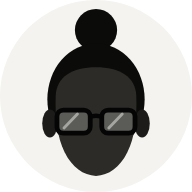
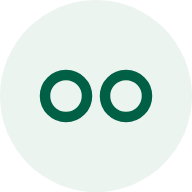
Les yeux d'Alice reviennent ; téléchargements blindés et diagnosticables
- retour à la présence animée d'origine (les deux yeux qui suivent le
  regard et réagissent aux états) ; vignette, icône d'onglet et image des
  e-mails reprennent les yeux ;
- routes de téléchargement du CV et du dossier : toute erreur inattendue
  renvoie un message clair (avec les en-têtes CORS) et une alerte portant
  la trace complète ;
- côté interface, un échec affiche le motif du serveur ou, à défaut, le
  code d'erreur (502/504 = le serveur a coupé ou redémarré).

Claude-Session: https://claude.ai/code/session_017LQZUVAtpk48LmXhj6mZ9W

diff --git a/frontend/app/onboarding/components/AlicePresence.tsx b/frontend/app/onboarding/components/AlicePresence.tsx
@@ -1,8 +1,7 @@
 "use client";
 
-import React, { useEffect, useId } from "react";
+import React, { useEffect } from "react";
 import { motion, useMotionValue, useSpring, useTransform } from "framer-motion";
-import { AliceGlasses, AliceHead, HEAD_VIEWBOX } from "./AliceSilhouette";
 
 export type AliceEmotion =
   | "idle"
@@ -20,101 +19,117 @@ interface AlicePresenceProps {
   size?: "sm" | "md" | "lg";
 }
 
-const HEIGHT = { sm: 34, md: 64, lg: 104 } as const;
-
-/**
- * Alice, présente : sa tête de face, en contre-jour, qui respire.
- *
- * Les états se lisent dans la lumière plus que dans le geste — nette quand
- * elle t'écoute, la tête qui s'incline quand elle lit ou écrit, le contour
- * qui se trouble et la lumière qui pulse derrière elle quand elle travaille.
- * Son regard suit très légèrement le pointeur : la tête se décale à peine,
- * la monture un peu plus, comme quand on tourne les yeux.
- */
 export function AlicePresence({ emotion, className = "", size = "lg" }: AlicePresenceProps) {
-  const uid = useId().replace(/[^a-zA-Z0-9]/g, "");
   const mouseX = useMotionValue(0);
   const mouseY = useMotionValue(0);
-  const gx = useSpring(mouseX, { damping: 30, stiffness: 120 });
-  const gy = useSpring(mouseY, { damping: 30, stiffness: 120 });
+
+  const springConfig = { damping: 25, stiffness: 200 };
+  const gazeX = useSpring(mouseX, springConfig);
+  const gazeY = useSpring(mouseY, springConfig);
 
   useEffect(() => {
-    const onMove = (e: MouseEvent) => {
+    const handleMouseMove = (e: MouseEvent) => {
       const cx = window.innerWidth / 2;
       const cy = window.innerHeight / 3;
-      mouseX.set(Math.max(-1, Math.min(1, (e.clientX - cx) / cx)));
-      mouseY.set(Math.max(-1, Math.min(1, (e.clientY - cy) / cy)));
+      const dx = Math.max(-1, Math.min(1, (e.clientX - cx) / cx));
+      const dy = Math.max(-1, Math.min(1, (e.clientY - cy) / cy));
+      mouseX.set(dx * 3);
+      mouseY.set(dy * 3);
     };
-    window.addEventListener("mousemove", onMove);
-    return () => window.removeEventListener("mousemove", onMove);
+
+    window.addEventListener("mousemove", handleMouseMove);
+    return () => window.removeEventListener("mousemove", handleMouseMove);
   }, [mouseX, mouseY]);
 
-  const busy = emotion === "working" || emotion === "searching" || emotion === "thinking";
-  const reading = emotion === "reading" || emotion === "writing";
+  const emotionOffsetY = useTransform(gazeY, (y) => {
+    if (emotion === "reading") return y + 3;
+    if (emotion === "thinking" || emotion === "working") return y - 2.5;
+    return y;
+  });
 
-  const headX = useTransform(gx, (g) => g * 0.7);
-  const headY = useTransform(gy, (g) => g * 0.4 + (reading ? 1.2 : 0));
-  const glassesX = useTransform(gx, (g) => g * 0.5);
-  const glassesY = useTransform(gy, (g) => g * 0.35);
-  const tilt = emotion === "thinking" ? -3 : reading ? 2.5 : 0;
+  const eyeSize = {
+    sm: "w-3 h-3 border-[2px]",
+    md: "w-4 h-4 border-[2px]",
+    lg: "w-5 h-5 border-[2.5px]",
+  }[size];
 
-  const sharp = emotion === "listening" || emotion === "happy" ? 0.5 : 0.75;
-  const height = HEIGHT[size];
-  const width = height;
-  const id = (name: string) => `${name}-${uid}`;
-  const pulse = { duration: 2.4, repeat: Infinity, ease: "easeInOut" } as const;
+  const gap = {
+    sm: "gap-4",
+    md: "gap-5",
+    lg: "gap-6",
+  }[size];
+
+  const isWorking = emotion === "working" || emotion === "searching" || emotion === "thinking";
 
   return (
-    <div className={`flex flex-col items-center justify-center select-none ${className}`}>
-      <svg viewBox={HEAD_VIEWBOX} width={width} height={height} role="img" aria-label="Alice" className="overflow-visible">
-        <defs>
-          <filter id={id("soft")} x="-30%" y="-30%" width="160%" height="160%">
-            <motion.feGaussianBlur
-              initial={false}
-              animate={{ stdDeviation: busy ? [sharp, sharp + 0.9, sharp] : sharp }}
-              transition={busy ? pulse : { duration: 0.6 }}
-            />
-          </filter>
-          <radialGradient id={id("glow")} cx="50%" cy="50%" r="50%">
-            <stop offset="0" stopColor="#E5F0EC" />
-            <stop offset="0.55" stopColor="#F3F8F6" stopOpacity="0.8" />
-            <stop offset="1" stopColor="#fff" stopOpacity="0" />
-          </radialGradient>
-        </defs>
-
-        {/* Le contre-jour : il s'intensifie quand elle travaille */}
-        <motion.ellipse
-          cx="50" cy="38" rx="34" ry="34"
-          fill={`url(#${id("glow")})`}
-          initial={false}
-          animate={busy ? { opacity: [0.7, 1, 0.7], scale: [1, 1.06, 1] } : { opacity: emotion === "happy" ? 1 : 0.8, scale: 1 }}
-          transition={busy ? pulse : { duration: 0.6 }}
-          style={{ transformOrigin: "50px 38px" }}
-        />
-
-        {/* Elle respire */}
-        <motion.g
-          animate={{ scaleY: [1, 1.01, 1], y: emotion === "happy" ? -1.5 : 0 }}
+    <div className={`flex flex-col items-center justify-center gap-3 select-none ${className}`}>
+      {/* ═══ Living Morphing Eyes Signature (○   ○) ═══ */}
+      <motion.div className={`flex items-center justify-center ${gap}`}>
+        {/* Left Eye */}
+        <motion.div
+          style={{ x: gazeX, y: emotionOffsetY }}
+          animate={
+            emotion === "working"
+              ? { scale: [1, 1.15, 1], opacity: [0.8, 1, 0.8] }
+              : emotion === "thinking"
+              ? { rotate: [0, 180, 360], scale: [1, 1.1, 1] }
+              : { scale: [1, 1.08, 1], opacity: [0.85, 1, 0.85] }
+          }
           transition={{
-            scaleY: { duration: 4.2, repeat: Infinity, ease: "easeInOut" },
-            y: { type: "spring", stiffness: 200, damping: 14 },
+            duration: emotion === "thinking" ? 2.5 : isWorking ? 1.4 : 3.2,
+            repeat: Infinity,
+            ease: "easeInOut",
           }}
-          style={{ transformOrigin: "50px 62px" }}
+          className={`${eyeSize} rounded-full border-[#006045] bg-transparent shadow-[0_0_14px_rgba(0,96,69,0.4)] flex items-center justify-center relative`}
         >
-          <g filter={`url(#${id("soft")})`}>
-            <motion.g
-              style={{ x: headX, y: headY, transformOrigin: "50px 62px" }}
-              animate={{ rotate: tilt }}
-              transition={{ type: "spring", stiffness: 120, damping: 16 }}
-            >
-              <AliceHead />
-              <motion.g style={{ x: glassesX, y: glassesY }}>
-                <AliceGlasses />
-              </motion.g>
-            </motion.g>
-          </g>
-        </motion.g>
-      </svg>
+          {/* Internal Iris / Dot depending on state */}
+          {isWorking && (
+            <motion.span
+              animate={{ scale: [0.6, 1, 0.6] }}
+              transition={{ duration: 1.2, repeat: Infinity }}
+              className="w-1.5 h-1.5 rounded-full bg-[#006045]"
+            />
+          )}
+        </motion.div>
+
+        {/* Center Live Node Pulse when working (○ • ○) */}
+        {isWorking && (
+          <motion.span
+            initial={{ scale: 0, opacity: 0 }}
+            animate={{ scale: [0.8, 1.2, 0.8], opacity: [0.4, 1, 0.4] }}
+            exit={{ scale: 0, opacity: 0 }}
+            transition={{ duration: 1, repeat: Infinity }}
+            className="w-1.5 h-1.5 rounded-full bg-[#006045]"
+          />
+        )}
+
+        {/* Right Eye */}
+        <motion.div
+          style={{ x: gazeX, y: emotionOffsetY }}
+          animate={
+            emotion === "working"
+              ? { scale: [1, 1.15, 1], opacity: [0.8, 1, 0.8] }
+              : emotion === "thinking"
+              ? { rotate: [0, -180, -360], scale: [1, 1.1, 1] }
+              : { scale: [1, 1.08, 1], opacity: [0.85, 1, 0.85] }
+          }
+          transition={{
+            duration: emotion === "thinking" ? 2.5 : isWorking ? 1.4 : 3.2,
+            repeat: Infinity,
+            ease: "easeInOut",
+          }}
+          className={`${eyeSize} rounded-full border-[#006045] bg-transparent shadow-[0_0_14px_rgba(0,96,69,0.4)] flex items-center justify-center relative`}
+        >
+          {/* Internal Iris / Dot depending on state */}
+          {isWorking && (
+            <motion.span
+              animate={{ scale: [0.6, 1, 0.6] }}
+              transition={{ duration: 1.2, repeat: Infinity, delay: 0.1 }}
+              className="w-1.5 h-1.5 rounded-full bg-[#006045]"
+            />
+          )}
+        </motion.div>
+      </motion.div>
     </div>
   );
 }

diff --git a/frontend/app/onboarding/components/AliceSilhouette.tsx b/frontend/app/onboarding/components/AliceSilhouette.tsx
@@ -1,83 +1,25 @@
 "use client";
 
 /**
- * L'identité d'Alice : une tête de face, en contre-jour — chignon,
- * lunettes aux verres clairs. Elle te regarde : une présence attentive,
- * pas une figure qui regarde ailleurs. Visage à peine éclairé, monture plus sombre
- * que la peau, verres qui laissent passer la lumière.
- *
- * Dessinée en vecteur (et non une photo) : nette à toutes les tailles,
- * animable, sans droit d'image. Repère : viewBox 0 0 100 120.
+ * Vignette d'Alice : ses deux yeux, comme sa présence animée, en petit.
+ * Utilisée là où l'animation complète prendrait trop de place (barre
+ * latérale, fil de conversation).
  */
-
-export const TONES = {
-  hair: "#0b0b0a",
-  face: "#2c2b28",
-  ears: "#1c1b19",
-  frame: "#050505",
-} as const;
-
-export const FACE_PATH =
-  "M37.4 37 C37.6 31 42.6 28 50 28 C57.4 28 62.4 31 62.6 37 C62.8 44 62.2 49.6 59.8 54.6 " +
-  "C57.4 59.4 54 61.8 50 62 C46 61.8 42.6 59.4 40.2 54.6 C37.8 49.6 37.2 44 37.4 37 Z";
-
-/** Tête : chignon, chevelure, oreilles, visage. */
-export function AliceHead() {
-  return (
-    <>
-      <circle cx="50" cy="16.4" r="6.6" fill={TONES.hair} />
-      <ellipse cx="50" cy="38" rx="15.2" ry="17.4" fill={TONES.hair} />
-      <ellipse cx="35.6" cy="45.6" rx="2.4" ry="4.4" fill={TONES.ears} />
-      <ellipse cx="64.4" cy="45.6" rx="2.4" ry="4.4" fill={TONES.ears} />
-      <path d={FACE_PATH} fill={TONES.face} />
-    </>
-  );
-}
-
-/**
- * La monture, nette, et des verres clairs qui accrochent la lumière : c'est
- * ce qui donne le regard à une silhouette sans traits.
- */
-export function AliceGlasses() {
-  return (
-    <>
-      <g fill="#D9D8D3" fillOpacity="0.28" stroke={TONES.frame} strokeWidth="1.5" strokeLinejoin="round">
-        <rect x="37.8" y="41.4" width="10.4" height="7.2" rx="2" />
-        <rect x="51.8" y="41.4" width="10.4" height="7.2" rx="2" />
-      </g>
-      {/* Reflets */}
-      <path
-        d="M40 47 L44.2 42.6 M54 47 L58.2 42.6"
-        stroke="#fff"
-        strokeOpacity="0.45"
-        strokeWidth="0.9"
-        strokeLinecap="round"
-      />
-      <path
-        d="M48.2 43.6 Q50 42.7 51.8 43.6 M37.8 42.6 L35.4 42.9 M62.2 42.6 L64.6 42.9"
-        stroke={TONES.frame}
-        strokeWidth="1.4"
-        fill="none"
-      />
-    </>
-  );
-}
-
-/** Cadrage sur la tête seule (chignon compris). */
-export const HEAD_VIEWBOX = "18 5 64 64";
-
-/** Vignette ronde (barre latérale) : la tête seule, nette. */
 export function AliceAvatar({ size = 32, className = "" }: { size?: number; className?: string }) {
+  const eye = Math.max(5, Math.round(size * 0.2));
   return (
     <span
-      className={`inline-flex shrink-0 items-center justify-center overflow-hidden rounded-full bg-[#ECF4F0] ring-1 ring-[#006045]/15 ${className}`}
-      style={{ width: size, height: size }}
+      className={`inline-flex shrink-0 items-center justify-center gap-[3px] rounded-full bg-[#ECF4F0] ring-1 ring-[#006045]/15 ${className}`}
+      style={{ width: size, height: size, gap: Math.round(size * 0.12) }}
       aria-hidden
     >
-      <svg viewBox="20 7 60 60" width={size} height={size}>
-        <AliceHead />
-        <AliceGlasses />
-      </svg>
+      {[0, 1].map((i) => (
+        <span
+          key={i}
+          className="rounded-full border-[1.5px] border-[#006045] shadow-[0_0_6px_rgba(0,96,69,0.35)]"
+          style={{ width: eye, height: eye }}
+        />
+      ))}
     </span>
   );
 }

diff --git a/frontend/lib/api.ts b/frontend/lib/api.ts
@@ -75,7 +75,9 @@ export async function downloadFileOrReason(url: string, fallbackName = "document
     } catch {
       /* corps non JSON */
     }
-    return res.status === 404 ? "Ce document n'existe pas (encore)." : "Téléchargement impossible pour l'instant.";
+    if (res.status === 404) return "Ce document n'existe pas (encore).";
+    // Le code aide à diagnostiquer (502/504 : le serveur a coupé ou redémarré).
+    return `Téléchargement impossible (erreur ${res.status}). Réessaie dans un instant.`;
   }
   saveBlob(await res.blob(), filenameFrom(res, fallbackName));
   return null;

diff --git a/backend/job-discovery/app/api/apply.py b/backend/job-discovery/app/api/apply.py
@@ -82,6 +82,39 @@ def _profile(candidate: Candidate) -> dict:
     return candidate_profile(candidate)
 
 
+def _guard_download(label: str):
+    """
+    Un téléchargement ne doit jamais échouer en silence : toute erreur
+    inattendue devient un message clair pour le candidat et une alerte qui
+    porte la trace complète (sinon une 500 sans en-têtes CORS arrivait au
+    navigateur comme « serveur injoignable »).
+    """
+    import functools
+    import traceback
+
+    def wrap(fn):
+        @functools.wraps(fn)
+        async def inner(*args, **kwargs):
+            try:
+                return await fn(*args, **kwargs)
+            except HTTPException:
+                raise
+            except Exception as e:  # noqa: BLE001
+                logger.error("%s : échec inattendu : %s", label, e, exc_info=True)
+                from app.agents.incidents import report_incident
+                await report_incident(
+                    "pack_failed", kwargs.get("candidate_id"), label,
+                    context={"job_id": str(kwargs.get("job_id")),
+                             "erreur": traceback.format_exc()[-1800:]},
+                )
+                raise HTTPException(
+                    500, "Je n'ai pas pu préparer ce téléchargement. L'équipe est prévenue ; "
+                         "réessaie dans quelques minutes.",
+                ) from None
+        return inner
+    return wrap
+
+
 def _render_error() -> str:
     from app.agents.application import cv_resolver
     return cv_resolver.last_render_error or "inconnue"
@@ -212,6 +245,7 @@ async def _cv_report(candidate_id: UUID, pack) -> CvReport:
 
 
 @router.get("/{job_id}/cv")
+@_guard_download("téléchargement du CV adapté")
 async def download_tailored_cv(
     candidate_id: UUID,
     job_id: UUID,
@@ -244,6 +278,7 @@ async def download_tailored_cv(
     )
 
 @router.get("/{job_id}/pack")
+@_guard_download("téléchargement du dossier")
 async def download_pack(
     candidate_id: UUID,
     job_id: UUID,

diff --git a/backend/job-discovery/tests/test_cv_adaptation.py b/backend/job-discovery/tests/test_cv_adaptation.py
@@ -31,3 +31,26 @@ def test_renotation_ne_supprime_pas_un_dossier_prepare():
                                   metadata_json={"cover_letter": {"body": "x"}}))
     assert _protected(Application(status=ApplicationStatus.APPLIED, metadata_json=None))
     assert not _protected(Application(status=ApplicationStatus.PENDING, metadata_json={"match": {}}))
+
+
+def test_un_telechargement_qui_plante_renvoie_un_message_clair(monkeypatch):
+    import asyncio
+    from fastapi import HTTPException
+    from app.api import apply
+
+    sent = {}
+
+    async def fake_incident(kind, candidate_id, detail, context=None, notify_user=True):
+        sent.update(kind=kind, context=context)
+
+    monkeypatch.setattr("app.agents.incidents.report_incident", fake_incident)
+
+    @apply._guard_download("test")
+    async def boom(candidate_id=None, job_id=None):
+        raise RuntimeError("typst a explosé")
+
+    try:
+        asyncio.run(boom(candidate_id="c", job_id="j"))
+    except HTTPException as e:
+        assert e.status_code == 500 and "L'équipe est prévenue" in e.detail
+    assert sent["kind"] == "pack_failed" and "typst a explosé" in sent["context"]["erreur"]
